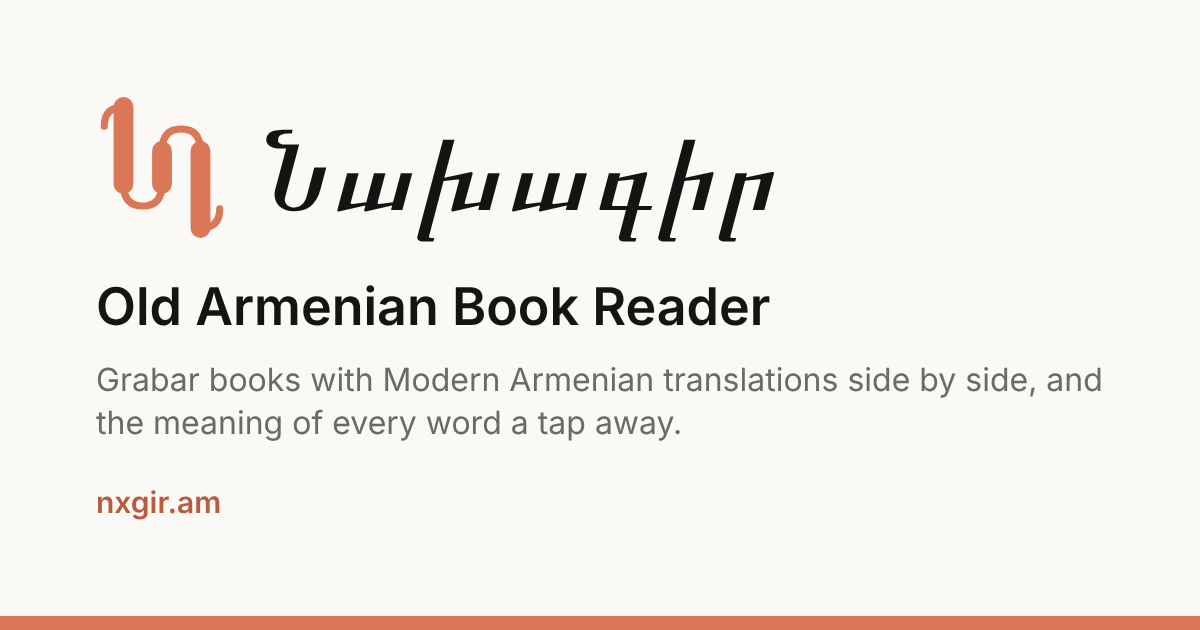
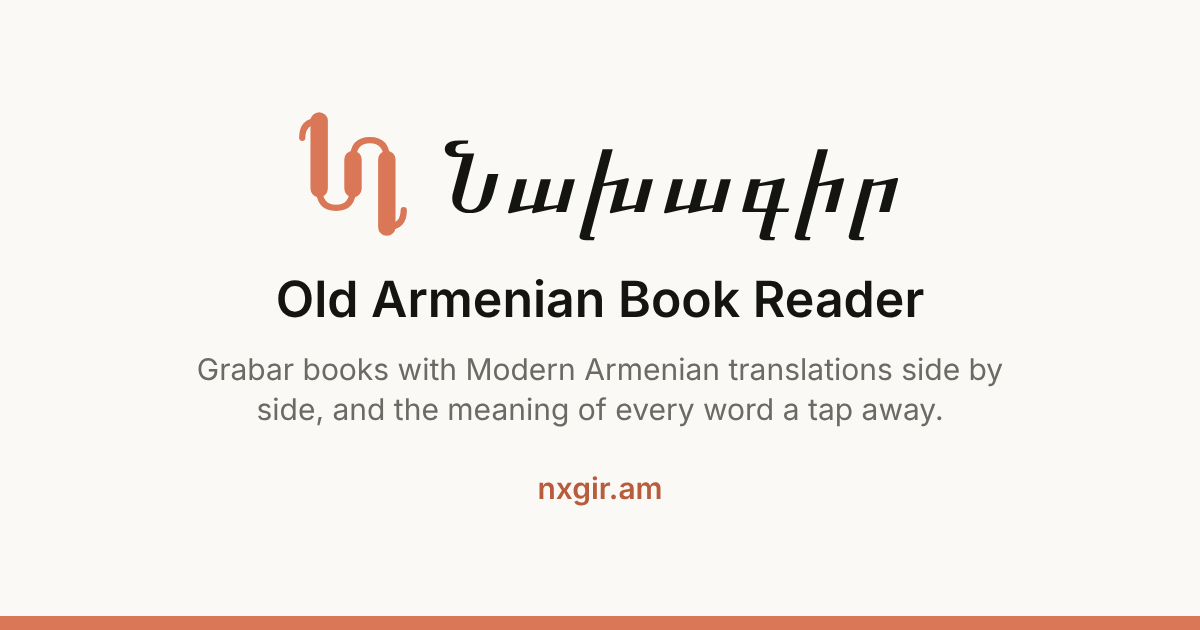
Link preview: keep the card inside LinkedIn's crop
A Featured link on LinkedIn shows only about the
middle 960px of the 1200px image; center the card
in the middle 840px. ?v=2 on og:image so LinkedIn
fetches the new picture instead of its cached one.

Claude-Session: https://claude.ai/code/session_01MmoF2qyxoB4D2nBrMMMzFR

diff --git a/web/index.html b/web/index.html
@@ -21,7 +21,7 @@
   Armenian translations and tap-to-lookup word
   meanings.">
 <meta property="og:image"
-  content="https://nxgir.am/og-image.png">
+  content="https://nxgir.am/og-image.png?v=2">
 <meta property="og:url" content="https://nxgir.am">
 <meta property="og:type" content="website">
 <link rel="icon" href="icon.svg?v=2">

diff --git a/scripts/render-og.py b/scripts/render-og.py
@@ -24,7 +24,10 @@ ROOT = Path(__file__).resolve().parent.parent
 WEB = ROOT / "web"
 OUT = WEB / "og-image.png"
 
-# the light theme of style.css
+# the light theme of style.css. LinkedIn crops
+# the sides (a Featured link shows about the
+# middle 960px), so all of it is centered and
+# kept in the middle 840px
 CARD = """<!doctype html>
 <html lang="hy">
 <head>
@@ -37,8 +40,10 @@ html, body {{ width: 1200px; height: 630px; }}
 body {{
   display: flex;
   flex-direction: column;
+  align-items: center;
   justify-content: center;
-  padding: 0 96px;
+  padding: 0 180px;
+  text-align: center;
   background: #faf9f5;
   color: #141413;
   font-family: system-ui, sans-serif;
@@ -47,28 +52,29 @@ body {{
 .top {{
   display: flex;
   align-items: center;
-  gap: 32px;
+  justify-content: center;
+  gap: 28px;
 }}
 svg {{
-  width: 132px;
-  height: 143px;
+  width: 116px;
+  height: 126px;
   fill: none;
   stroke: #d97757;
   stroke-linecap: round;
   stroke-linejoin: round;
 }}
 h1 {{
-  font: 400 112px "nx Arian Grqi", serif;
+  font: 400 100px "nx Arian Grqi", serif;
   line-height: 1.1;
 }}
 h2 {{
-  margin-top: 36px;
-  font-size: 52px;
+  margin-top: 32px;
+  font-size: 50px;
   font-weight: 600;
 }}
 p {{
   margin-top: 20px;
-  font-size: 32px;
+  font-size: 30px;
   color: #6b6a65;
   line-height: 1.35;
 }}
